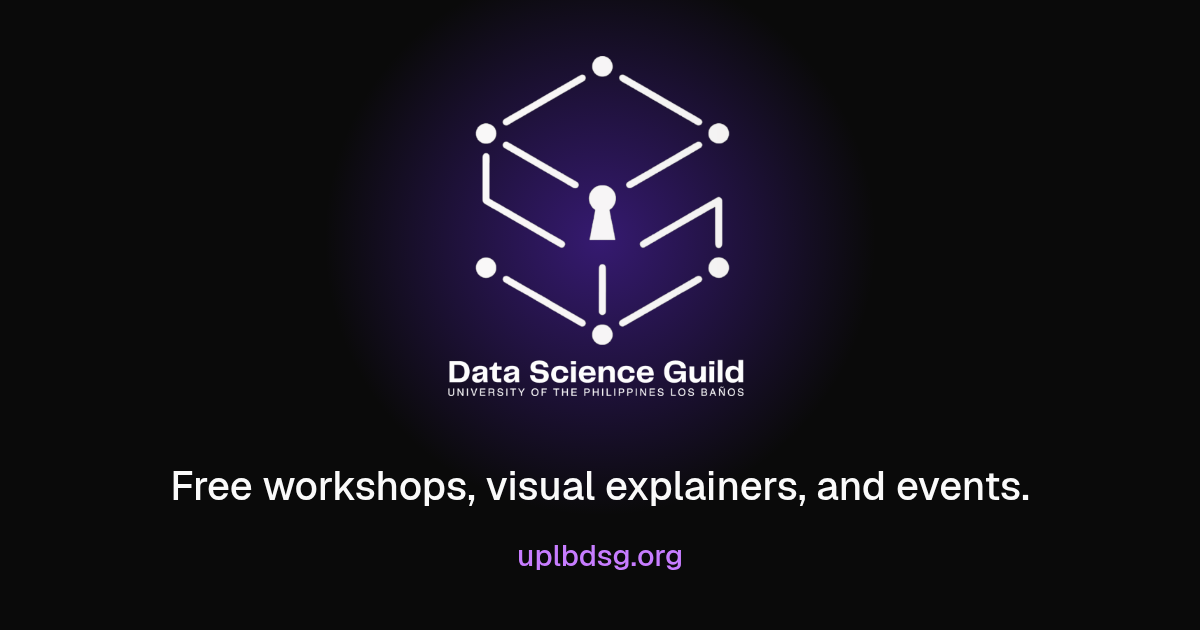
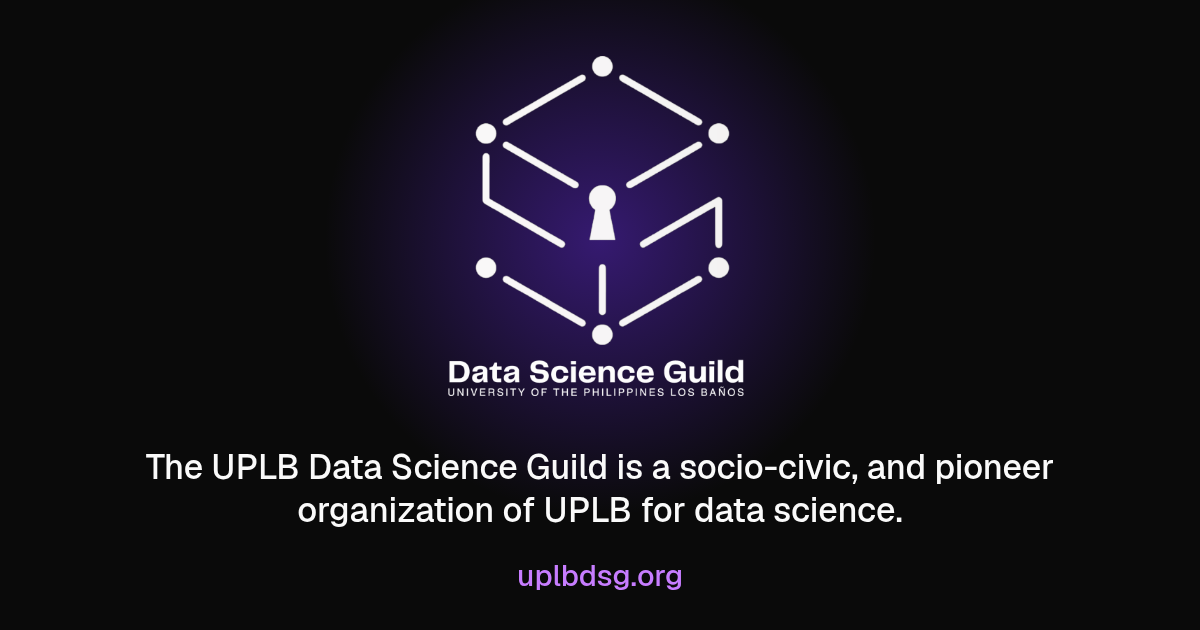
fix(copy): Open Graph card uses the Facebook page description; hero tagline drops Free
Claude-Session: https://claude.ai/code/session_01Mwr6eEosZNVJ9kfZxeSQjY

Changed region(s): [[0.1233, 0.7238, 0.8942, 0.8444], [0.4317, 0.8746, 0.5858, 0.9349]]

diff --git a/app/lib/data.ts b/app/lib/data.ts
@@ -101,7 +101,7 @@ export const COPY = {
   orgName: "UPLB Data Science Guild",
   tagline: SITE_DESCRIPTION,
   heroTagline:
-    "The pioneer data science organization of UPLB. Free workshops, visual explainers, and events for students who learn by building.",
+    "The pioneer data science organization of UPLB. Workshops, visual explainers, and events for students who learn by building.",
   whoAreWe:
     "The UPLB Data Science Guild (DSG) is the pioneer data science organization of the University of the Philippines Los Baños. We are a socio-civic organization of students who learn and practice data science together through workshops, projects, and community events, guided by three values: integrity, interdependence, and innovation.",
   mission:
